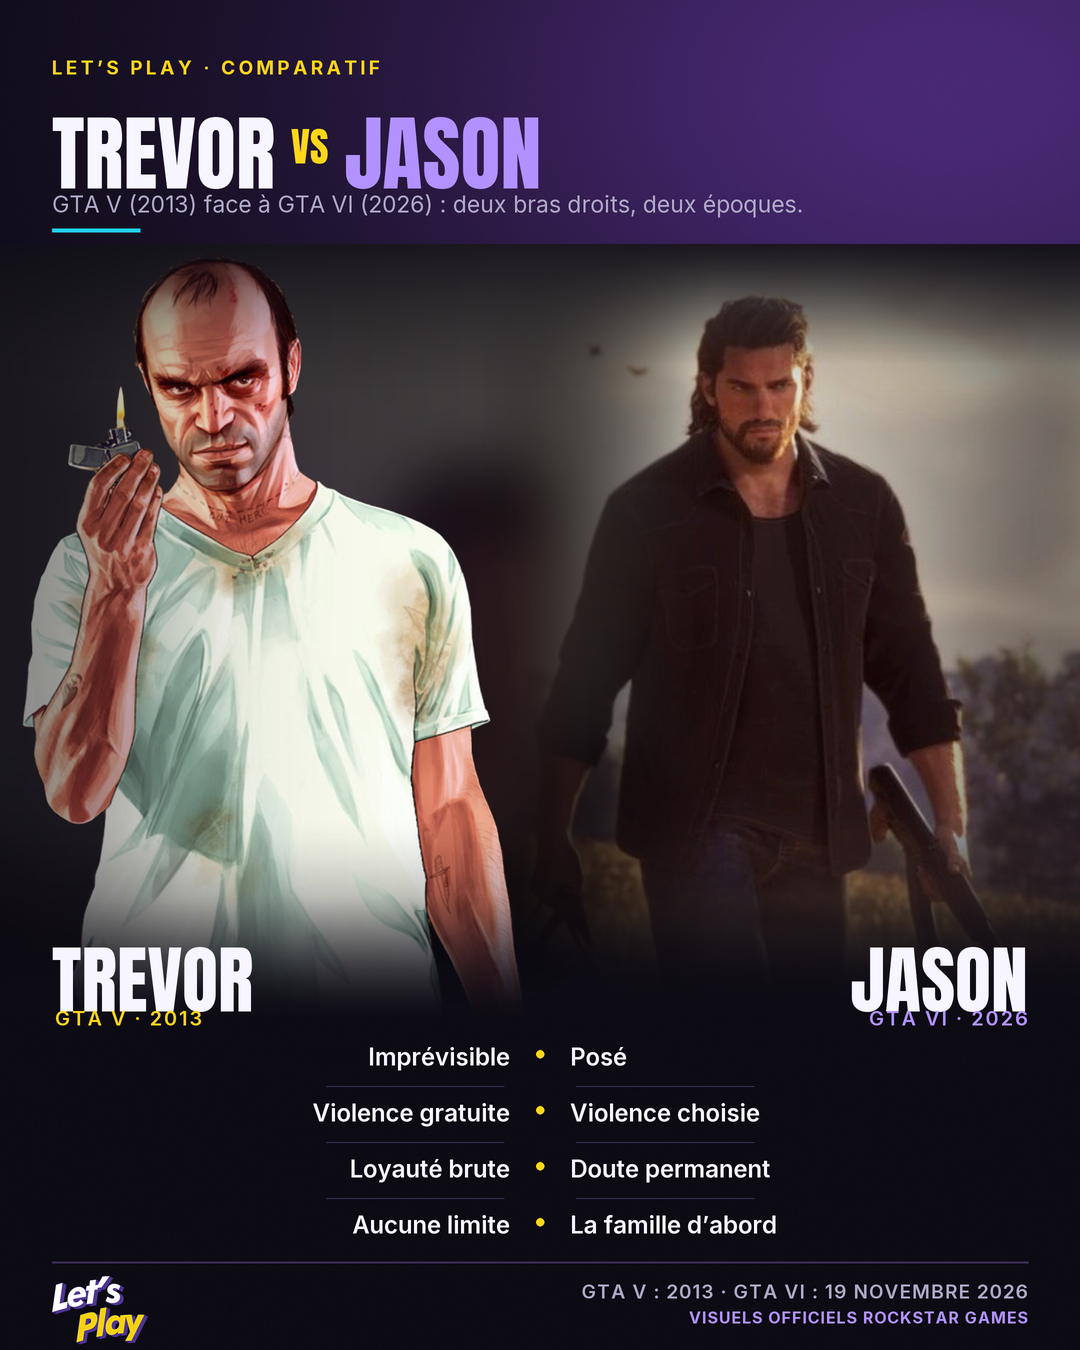
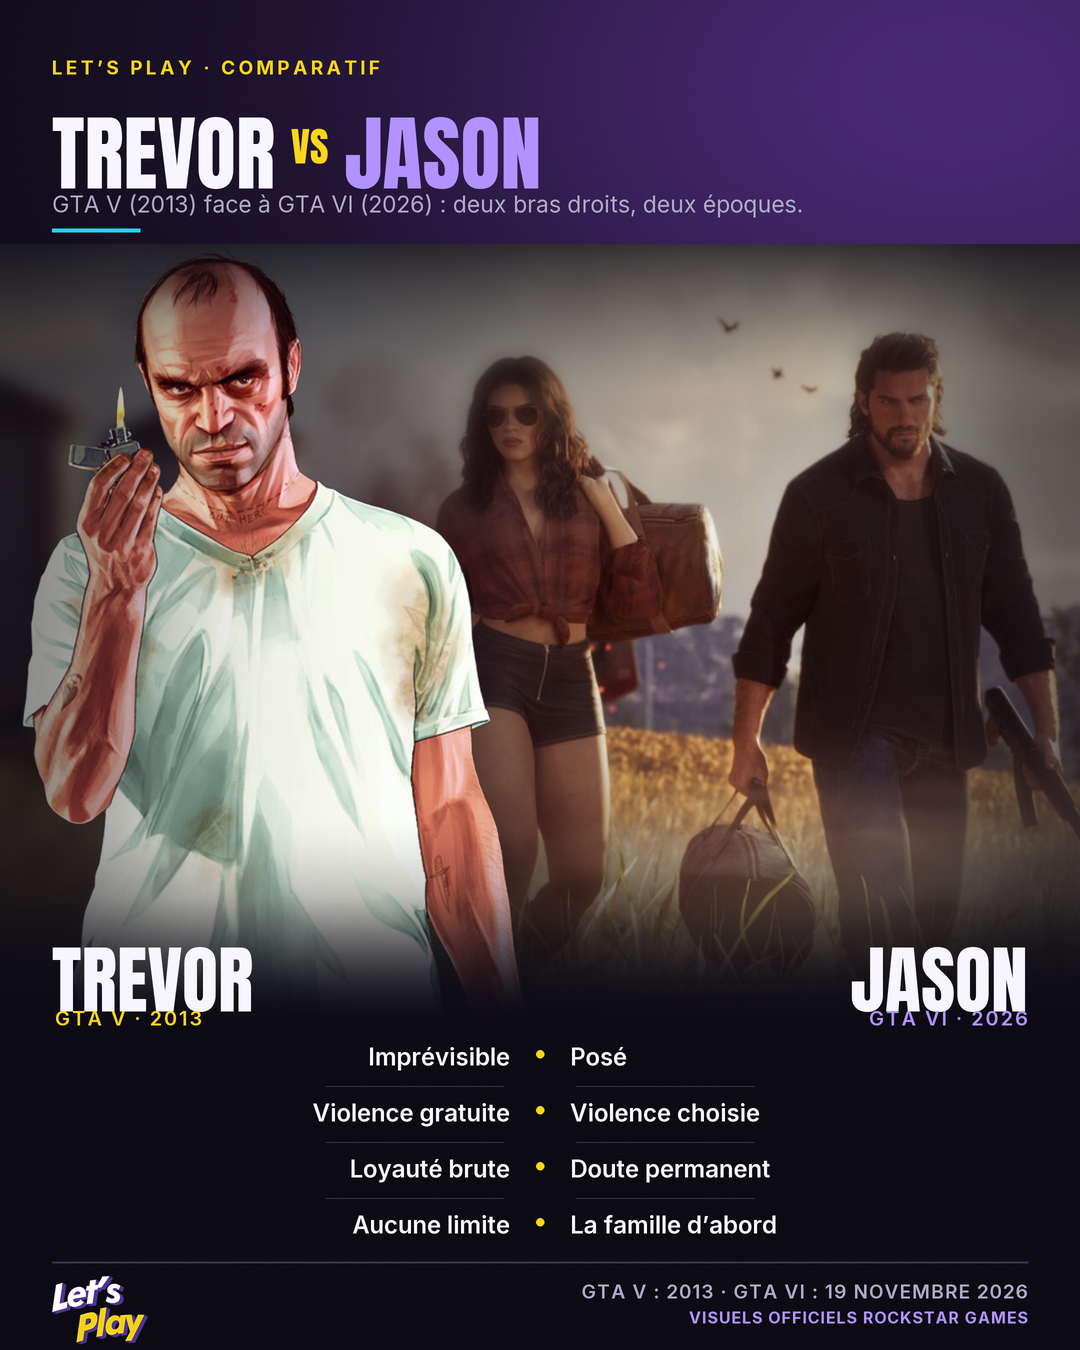
Visuel Instagram : fond GTA VI derrière les deux personnages
Le fond prune laisse place à la clé d'art officielle de GTA VI (Jason et Lucia
devant la ferme en feu) : elle est floutée pour rester en arrière-plan, puis le
duo y est repiqué NET dans la même image — même lumière, aucune couture. Un
voile vertical (léger en haut, dense en bas) garde les noms et les quatre
lignes de comparaison lisibles.

Trevor reste au premier plan à gauche, à la même échelle de visage qu'avant.

Changed region(s): [[0.2444, 0.1556, 1.0, 0.7156], [0.0, 0.1867, 0.1528, 0.4044]]

diff --git a/scripts/visuels/make_gta_trevor_jason_45.py b/scripts/visuels/make_gta_trevor_jason_45.py
@@ -6,9 +6,10 @@ Auto V* (2013), face à Jason Duval, le vétéran plus posé de *Grand Theft Aut
 VI* (19 novembre 2026).
 
 Mise en page : **un seul visuel, sans séparation**. Pas de cadre, pas de
-couture, pas de badge « VS » : les deux personnages partagent le même décor
-(une brume tirée de la clé d'art, floutée et unifiée), la même lumière et la
-même échelle de visage. Les noms sont posés à même l'image, et les quatre axes
+couture, pas de badge « VS ». Le fond est la clé d'art officielle de *GTA VI*
+(Jason et Lucia devant la ferme en feu), floutée pour rester en arrière-plan ;
+le duo y est repiqué net, dans la même lumière. Trevor, détouré, occupe le
+premier plan à gauche. Les noms sont posés à même l'image, et les quatre axes
 de comparaison tiennent dans la bande sombre du bas.
 
 Sortie : PNG 1080 × 1350 px (4:5) et JPEG qualité 92 pour Instagram.
@@ -16,9 +17,9 @@ Sortie : PNG 1080 × 1350 px (4:5) et JPEG qualité 92 pour Instagram.
 Sources
 - Trevor : rendu officiel Rockstar (fond transparent), fourni via
   `instagram/assets/gta5-trevor-render.png`.
-- Jason : clé d'art officielle *GTA VI* (Jason et Lucia), déjà publiée sur le
-  site (`public/gta6-jason-lucia-hero.jpg`), recadrée sur Jason dans
-  `instagram/assets/gta6-jason.jpg`.
+- Fond et Jason : clé d'art officielle *GTA VI* (Jason et Lucia devant la ferme
+  en feu), déjà publiée sur le site (`public/gta6-jason-lucia-hero.jpg`), copiée
+  dans `instagram/assets/gta6-keyart.jpg`.
 
 Usage :
     python3 scripts/visuels/make_gta_trevor_jason_45.py [--out DOSSIER]
@@ -141,26 +142,6 @@ def cutout_portrait(source, spec, width, height):
     return art
 
 
-def photo_portrait(source, spec, width, height):
-    """Photo plein cadre (Jason) : même échelle de visage, fondu bas et latéral."""
-    w, h = source.size
-    head_h = max(0.01, (spec["chin"] - spec["head"][1]) * h)
-    scale = (px(spec["head_px"]) * (height / px(ART_H))) / head_h
-    art = source.resize((max(1, round(w * scale)), max(1, round(h * scale))), Image.Resampling.LANCZOS)
-    if art.width < width:
-        art = art.resize((width, round(art.height * width / art.width)), Image.Resampling.LANCZOS)
-    head_x, head_y = spec["head"]
-    left = round(head_x * art.width - width * spec["align_x"])
-    top = round(head_y * art.height - height * spec["head_at"])
-    left = min(max(left, 0), max(0, art.width - width))
-    top = min(max(top, 0), max(0, art.height - height))
-    art = art.crop((left, top, left + width, top + height)).convert("RGBA")
-    # La clé d'art est pâle : on remonte le contraste avant un voile très léger.
-    art = ImageEnhance.Brightness(art.convert("RGB")).enhance(1.12).convert("RGBA")
-    art = ImageEnhance.Contrast(art).enhance(1.06)
-    return Image.alpha_composite(art, Image.new("RGBA", art.size, INK + (26,)))
-
-
 def feather_bottom(art, height_px):
     """Fondu vers l'encre sur le bas d'un portrait, pour asseoir les noms."""
     shade = Image.new("L", art.size, 0)
@@ -174,59 +155,53 @@ def feather_bottom(art, height_px):
     return out
 
 
-def shared_world(im, trevor, jason):
-    """Un seul décor : les deux personnages côte à côte, sans séparation.
+def shared_world(im, trevor, jason, background):
+    """Un seul visuel : Trevor au premier plan, la clé d'art de GTA VI derrière.
 
-    Le fond est commun (halo prune), les deux figures se chevauchent légèrement
-    et partagent la même lumière basse — rien ne les coupe en deux.
+    Le fond est la clé d'art officielle de GTA VI (Jason et Lucia devant la
+    ferme en feu), floutée ; le duo y est repiqué net, dans la même lumière.
+    Trevor, détouré, occupe le premier plan à gauche. Aucune couture, aucun
+    cadre : les deux époques partagent une seule image.
     """
     band_h = px(ART_H)
     base_y = px(ART_TOP)
 
-    # Décor commun : une brume tirée de la clé d'art (ciel et blé), floutée et
-    # étirée sur toute la bande. Les deux personnages baignent ainsi dans la
-    # même lumière, sans bord de photo visible.
-    sky = jason.crop((0, 0, jason.width, round(jason.height * 0.42)))
-    cover = max(px(W) / sky.width, band_h / sky.height)
-    sky = sky.resize((round(sky.width * cover) + 2, round(sky.height * cover) + 2),
-                     Image.Resampling.LANCZOS)
-    wx = round((sky.width - px(W)) / 2)
-    wy = round((sky.height - band_h) / 2)
-    sky = sky.crop((wx, wy, wx + px(W), wy + band_h)).convert("RGB")
-    sky = sky.filter(ImageFilter.GaussianBlur(px(26)))
-    # Ce ciel est très clair : on le ramène dans l'ombre, plus dense à gauche.
-    sky = ImageEnhance.Brightness(sky).enhance(0.62)
-    world = sky.convert("RGBA")
-    world = Image.alpha_composite(world, Image.new("RGBA", world.size, INK + (150,)))
-    left_dim = Image.new("RGBA", world.size, (0, 0, 0, 0))
-    ld = ImageDraw.Draw(left_dim)
-    for x in range(px(520)):
-        a = round(120 * (1 - x / px(520)) ** 1.3)
-        ld.line([(x, 0), (x, band_h)], fill=INK + (a,))
-    world = Image.alpha_composite(world, left_dim)
-    im.alpha_composite(world, (0, base_y))
+    # Décor : la clé d'art officielle de GTA VI (Jason et Lucia devant la
+    # ferme en feu). Elle est floutée pour rester en arrière-plan, puis Jason y
+    # est redécoupé NET à sa place exacte : même image, même lumière, donc
+    # aucune couture possible entre le premier plan et le fond.
+    keyart = background
+    cover = max(px(W) / keyart.width, band_h / keyart.height)
+    world = keyart.resize((round(keyart.width * cover) + 2, round(keyart.height * cover) + 2),
+                          Image.Resampling.LANCZOS)
+    wx = round((world.width - px(W)) * 0.62)
+    wy = max(0, round((world.height - band_h) * 0.12))
+    wx = min(wx, max(0, world.width - px(W)))
+    wy = min(wy, max(0, world.height - band_h))
+    sharp = world.crop((wx, wy, wx + px(W), wy + band_h)).convert("RGB")
 
-    # Jason (photo) se pose sur ce décor ; son bord gauche se fond dans l'encre.
-    jason_w = px(600)
-    jacket = photo_portrait(jason, JASON, jason_w, band_h)
-    side = Image.new("L", jacket.size, 255)
-    sd = ImageDraw.Draw(side)
-    span = px(230)
-    for i in range(span):
-        sd.line([(i, 0), (i, jacket.height)], fill=round(255 * i / span))
-    back = Image.new("RGBA", (px(W), band_h), (0, 0, 0, 0))
-    back.paste(jacket, (px(W - 600), 0), side)
-    # La photo de Jason commence sous le haut de la bande : on adoucit cette
-    # arête horizontale pour qu'elle se dissolve dans la brume.
-    top_edge = Image.new("L", (px(W), band_h), 0)
-    te = ImageDraw.Draw(top_edge)
-    edge = px(120)
-    for i in range(edge):
-        te.line([(0, i), (px(W), i)], fill=round(255 * i / edge))
-    te.rectangle([0, edge, px(W), band_h], fill=255)
-    back.putalpha(Image.composite(back.getchannel("A"), Image.new("L", back.size, 0), top_edge))
-    back = feather_bottom(back, px(260))
-    im.alpha_composite(back, (0, base_y))
+    blurred = sharp.filter(ImageFilter.GaussianBlur(px(9)))
+    blurred = ImageEnhance.Brightness(blurred).enhance(0.72)
+
+    # Voile : léger en haut (la scène reste lisible), dense en bas (noms et
+    # lignes de comparaison doivent tenir le contraste).
+    veil = np.zeros((band_h, px(W), 4), dtype=float)
+    gy = np.linspace(0, 1, band_h)[:, None]
+    veil[..., :3] = np.array(INK)
+    veil[..., 3] = np.clip(40 + 170 * gy ** 1.5, 0, 255)
+    world = Image.alpha_composite(blurred.convert("RGBA"), Image.fromarray(np.uint8(veil), "RGBA"))
+
+    # Le duo de GTA VI (Lucia et Jason) est repiqué NET dans la MÊME image :
+    # masque elliptique très doux, pour qu'il se détache du fond flouté sans
+    # laisser voir de bord de photo.
+    cx, cy = int(px(W) * 0.71), int(band_h * 0.46)
+    keep = Image.new("L", sharp.size, 0)
+    kd = ImageDraw.Draw(keep)
+    rx, ry = px(330), px(330)
+    kd.ellipse([cx - rx, cy - ry, cx + rx, cy + ry * 1.15], fill=255)
+    keep = keep.filter(ImageFilter.GaussianBlur(px(110)))
+    world.paste(sharp.convert("RGBA"), (0, 0), keep)
+    im.alpha_composite(world, (0, base_y))
 
     # Halo derrière Trevor : il se découpe sur la lumière, pas sur une ligne.
     glow = Image.new("RGBA", (px(W), band_h), (0, 0, 0, 0))
@@ -328,10 +303,13 @@ def main():
 
     trevor = Image.open(ASSETS / "gta5-trevor-render.png").convert("RGBA")
     jason = Image.open(ASSETS / "gta6-jason.jpg").convert("RGB")
+    # Décor : la vue de Vice City au coucher de soleil (palmiers, skyline,
+    # décapotable), publiée sur le site avec /jeu/vice-city-rush.
+    background = Image.open(ASSETS / "gta6-keyart.jpg").convert("RGB")
 
     im = ground()
     masthead(im)
-    shared_world(im, trevor, jason)
+    shared_world(im, trevor, jason, background)
     name_plates(im)
     comparison(im, (TREVOR, JASON))
     footer(im)
